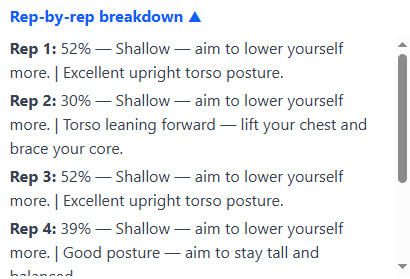
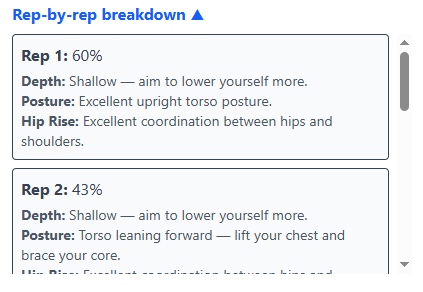
added hip shooting analysis functionality and speed optimisation

diff --git a/frontend/src/components/VideoUpload.jsx b/frontend/src/components/VideoUpload.jsx
@@ -25,7 +25,7 @@ export default function VideoUpload() {
     try {
       // Use XMLHttpRequest for progress tracking, as fetch API doesn't support it natively for uploads
       const xhr = new XMLHttpRequest();
-      // xhr.open("POST", "http://localhost:8000/upload");
+       //xhr.open("POST", "http://localhost:8000/upload");
       xhr.open("POST", "https://technique-analyser-api.onrender.com/upload");
 
       // Event listener for upload progress
@@ -179,9 +179,14 @@ export default function VideoUpload() {
                       }`}
                     >
                       {analysisResult.rep_feedback.map((rep) => (
-                        <div key={rep.rep_number}>
-                          <strong>Rep {rep.rep_number}:</strong> {rep.score}% — {rep.depth_feedback} | {rep.posture_feedback}
-                        </div>
+                        <div key={rep.rep_number} className="mb-2 p-2 border rounded bg-gray-50">
+                          <strong>Rep {rep.rep_number}:</strong> <span>{rep.score}%</span>
+                          <div className="mt-1 text-sm text-gray-600">
+                            <div><strong>Depth:</strong> {rep.depth_feedback}</div>
+                            <div><strong>Posture:</strong> {rep.posture_feedback}</div>
+                            <div><strong>Hip Rise:</strong> {rep.hip_rise_feedback}</div>
+                          </div>
+                      </div>
                       ))}
                     </div>
                   )}

diff --git a/backend/main.py b/backend/main.py
@@ -36,39 +36,55 @@ def calculate_angle_3d(a, b, c):
 
 
 def knee_score(angle):
-    if angle <= 90:
-        return 1.0  # Excellent depth
-    elif angle <= 105:
-        return 0.8  # Good
-    elif angle <= 120:
-        return 0.5  # Fair
-    elif angle <= 135:
-        return 0.2  # Poor
+    if angle <= 85:       # stricter - excellent depth requires deeper squat
+        return 1.0
+    elif angle <= 100:
+        return 0.8
+    elif angle <= 115:
+        return 0.5
+    elif angle <= 130:
+        return 0.2
     else:
-        return 0.0  # Too shallow
+        return 0.0
 
 
 def torso_score(angle):
-    if angle < 25:
-        return 1.0  # Excellent posture
+    if angle < 25:        # stricter - upright torso more demanding
+        return 1.0
     elif angle < 40:
-        return 0.8  # Good posture
+        return 0.8
     elif angle < 55:
-        return 0.5  # Noticeable lean
+        return 0.5
     elif angle < 70:
-        return 0.2  # Excessive lean
+        return 0.2
     else:
-        return 0.0  # Likely bad posture or missing torso detection
+        return 0.0
+    
+
+def hip_rise_score(ratio):
+    if ratio <= 2.5:      # was 2.1 → increased
+        return 1.0
+    elif ratio <= 3.3:    # was 2.9 → increased
+        return 0.8
+    elif ratio <= 4.0:    # was 3.5 → increased
+        return 0.5
+    elif ratio <= 5.0:    # was 4.5 → increased
+        return 0.2
+    else:
+        return 0.0
+
+
+
 
 
 def depth_feedback(angle):
-    if angle <= 90:
+    if angle <= 85:
         return "Excellent squat depth!"
-    elif angle <= 105:
+    elif angle <= 100:
         return "Good depth — just a little deeper for perfection."
-    elif angle <= 120:
+    elif angle <= 115:
         return "Fair depth — work on reaching parallel."
-    elif angle <= 135:
+    elif angle <= 130:
         return "Shallow — aim to lower yourself more."
     else:
         return "Too shallow — bend your knees further and sit deeper."
@@ -87,6 +103,20 @@ def posture_feedback(angle, side="left"):
         return "Severe torso angle — posture likely needs significant correction or visibility may be poor."
 
 
+def hip_rise_feedback(ratio):
+    if ratio <= 2.5:
+        return "Excellent coordination between hips and shoulders."
+    elif ratio <= 3.3:
+        return "Slight early hip rise — try to keep hips and shoulders rising together."
+    elif ratio <= 4.0:
+        return "Moderate hip rise — maintain a stronger back and brace more during the ascent."
+    elif ratio <= 5.0:
+        return "Noticeable hip shooting — work on quad strength and maintaining a vertical back."
+    else:
+        return "Excessive early hip rise — likely compensation due to weak quads or poor bracing."
+
+
+    
 
 def extract_pose_landmarks(video_path: str):
     cap = cv2.VideoCapture(video_path)
@@ -124,6 +154,23 @@ def calculate_torso_angle(shoulder, hip):
     angle = np.arccos(np.clip(cosine_angle, -1.0, 1.0))
     return math.degrees(angle)
 
+def calculate_hip_rise_ratio(hip_y_series, shoulder_y_series):
+    """
+    Calculates the ratio of hip rise to shoulder rise during the ascent phase.
+    This helps detect early hip shooting up from the bottom of a squat.
+    Positive rise = moving up (decreasing Y value).
+    """
+    if not hip_y_series or not shoulder_y_series:
+        return float("inf")
+
+    hip_rise = hip_y_series[0] - hip_y_series[-1]
+    shoulder_rise = shoulder_y_series[0] - shoulder_y_series[-1]
+
+    # Handle both rise and fall directions
+    if shoulder_rise == 0:
+        return float("inf")
+
+    return abs(hip_rise) / abs(shoulder_rise + 1e-5)
 
 
 def analyze_landmarks(landmarks: list):
@@ -136,16 +183,8 @@ def analyze_landmarks(landmarks: list):
         }
 
     mp_indices = mp_pose.PoseLandmark
-
-    # Decide left or right based on visibility
-    left_valid = sum(
-        1 for f in landmarks
-        if f and f[mp_indices.LEFT_KNEE.value][3] > 0.5
-    )
-    right_valid = sum(
-        1 for f in landmarks
-        if f and f[mp_indices.RIGHT_KNEE.value][3] > 0.5
-    )
+    left_valid = sum(1 for f in landmarks if f and f[mp_indices.LEFT_KNEE.value][3] > 0.5)
+    right_valid = sum(1 for f in landmarks if f and f[mp_indices.RIGHT_KNEE.value][3] > 0.5)
     preferred_side = "left" if left_valid >= right_valid else "right"
 
     def get_side_landmarks(frame, side="left"):
@@ -160,7 +199,6 @@ def analyze_landmarks(landmarks: list):
                 knee = frame[mp_indices.RIGHT_KNEE.value]
                 ankle = frame[mp_indices.RIGHT_ANKLE.value]
                 shoulder = frame[mp_indices.RIGHT_SHOULDER.value]
-
             if hip[3] < 0.5 or knee[3] < 0.5 or ankle[3] < 0.5 or shoulder[3] < 0.5:
                 return None, None, None, None
             return hip, knee, ankle, shoulder
@@ -169,20 +207,29 @@ def analyze_landmarks(landmarks: list):
 
     rep_count = 0
     rep_feedback = []
-
     rep_in_progress = False
     bottom_reached = False
     min_knee_angle = 180
     rep_min_knee_angles = []
     rep_torso_angles = []
+    rep_hip_y = []
+    rep_shoulder_y = []
 
     DEPTH_TRIGGER = 140
     STAND_THRESHOLD = 160
     MIN_REP_RANGE = 20
+    
+    skip_rate = 2  # ← SKIP every 2nd frame (adjust if needed)
 
-    for frame in landmarks:
+    for i, frame in enumerate(landmarks):
+        if i % skip_rate != 0:
+            continue
         if frame is None:
             continue
+
+    # for frame in landmarks:
+    #     if frame is None:
+    #         continue
 
         hip, knee, ankle, shoulder = get_side_landmarks(frame, preferred_side)
         if None in [hip, knee, ankle, shoulder]:
@@ -191,7 +238,6 @@ def analyze_landmarks(landmarks: list):
         knee_angle = calculate_angle_3d(hip, knee, ankle)
         torso_angle = calculate_torso_angle(shoulder, hip)
 
-
         if not rep_in_progress:
             if knee_angle < DEPTH_TRIGGER:
                 rep_in_progress = True
@@ -199,20 +245,25 @@ def analyze_landmarks(landmarks: list):
                 min_knee_angle = knee_angle
                 rep_min_knee_angles = [knee_angle]
                 rep_torso_angles = [torso_angle]
+                rep_hip_y = [hip[1]]
+                rep_shoulder_y = [shoulder[1]]
         else:
             rep_min_knee_angles.append(knee_angle)
             rep_torso_angles.append(torso_angle)
+            rep_hip_y.append(hip[1])
+            rep_shoulder_y.append(shoulder[1])
             if knee_angle < min_knee_angle:
                 min_knee_angle = knee_angle
-
             if not bottom_reached and knee_angle > min_knee_angle + 2:
                 bottom_reached = True
-
             if bottom_reached and knee_angle > STAND_THRESHOLD:
                 if (STAND_THRESHOLD - min_knee_angle) >= MIN_REP_RANGE:
                     ks = knee_score(min_knee_angle)
                     ts = np.mean([torso_score(a) for a in rep_torso_angles])
-                    rep_score = (ks * 0.6 + ts * 0.4) * 100
+                    rise_ratio = calculate_hip_rise_ratio(rep_hip_y, rep_shoulder_y)
+                    hrs = hip_rise_score(rise_ratio)
+
+                    rep_score = (ks * 0.5 + ts * 0.3 + hrs * 0.2) * 100
                     rep_count += 1
 
                     rep_feedback.append({
@@ -220,27 +271,28 @@ def analyze_landmarks(landmarks: list):
                         "score": round(rep_score),
                         "min_knee_angle": round(min_knee_angle, 1),
                         "avg_torso_angle": round(np.mean(rep_torso_angles), 1),
+                        "hip_rise_ratio": round(rise_ratio, 2),
                         "depth_feedback": depth_feedback(min_knee_angle),
-                        "posture_feedback": posture_feedback(np.mean(rep_torso_angles), preferred_side)
+                        "posture_feedback": posture_feedback(np.mean(rep_torso_angles), preferred_side),
+                        "hip_rise_feedback": hip_rise_feedback(rise_ratio)
                     })
-
                 rep_in_progress = False
                 bottom_reached = False
                 min_knee_angle = 180
                 rep_min_knee_angles = []
                 rep_torso_angles = []
+                rep_hip_y = []
+                rep_shoulder_y = []
 
     overall_avg_score = round(np.mean([r["score"] for r in rep_feedback])) if rep_feedback else 0
-    avg_knee = np.mean([r["min_knee_angle"] for r in rep_feedback]) if rep_feedback else 180
-    avg_torso = np.mean([r["avg_torso_angle"] for r in rep_feedback]) if rep_feedback else 90
+    avg_knee_score = np.mean([knee_score(r["min_knee_angle"]) for r in rep_feedback]) if rep_feedback else 0
+    avg_torso_score = np.mean([torso_score(r["avg_torso_angle"]) for r in rep_feedback]) if rep_feedback else 0
+    avg_hip_rise_score = np.mean([hip_rise_score(r["hip_rise_ratio"]) for r in rep_feedback]) if rep_feedback else 0
 
     set_feedback = []
     if overall_avg_score == 0:
         set_feedback.append("❌ No valid squats detected — please ensure you're visible and your form is clear in the video.")
     else:
-        avg_knee_score = np.mean([knee_score(r["min_knee_angle"]) for r in rep_feedback])
-        avg_torso_score = np.mean([torso_score(r["avg_torso_angle"]) for r in rep_feedback])
-
         if avg_knee_score >= 0.9:
             set_feedback.append("✅ Excellent squat depth across the set — great job hitting depth!")
         elif avg_knee_score >= 0.7:
@@ -259,13 +311,22 @@ def analyze_landmarks(landmarks: list):
         else:
             set_feedback.append("❗ Excessive torso lean in most reps — work on mobility and torso control to avoid tipping forward.")
 
+        if avg_hip_rise_score >= 0.9:
+            set_feedback.append("✅ Hips and shoulders moved together smoothly during the ascent — great control!")
+        elif avg_hip_rise_score >= 0.7:
+            set_feedback.append("👍 Good control of ascent, but occasionally hips rose too quickly.")
+        elif avg_hip_rise_score >= 0.4:
+            set_feedback.append("⚠ Hips often shot up before shoulders — work on maintaining alignment during the rise.")
+        else:
+            set_feedback.append("❗ Frequent early hip rise — improve coordination and strengthen your quads to fix this.")
 
     return {
         "rep_count": rep_count,
         "avg_score": overall_avg_score,
         "rep_feedback": rep_feedback,
-        "set_feedback": set_feedback,
+        "set_feedback": set_feedback
     }
+
 
 
 @app.get("/")
